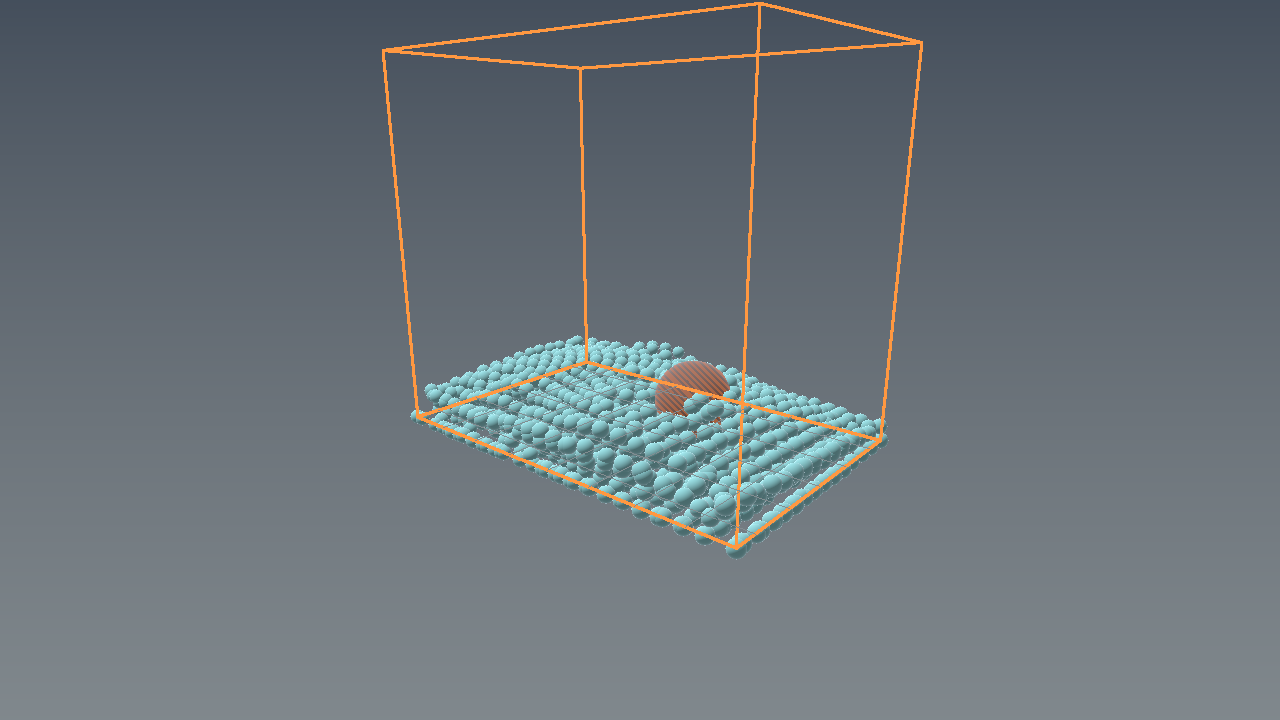
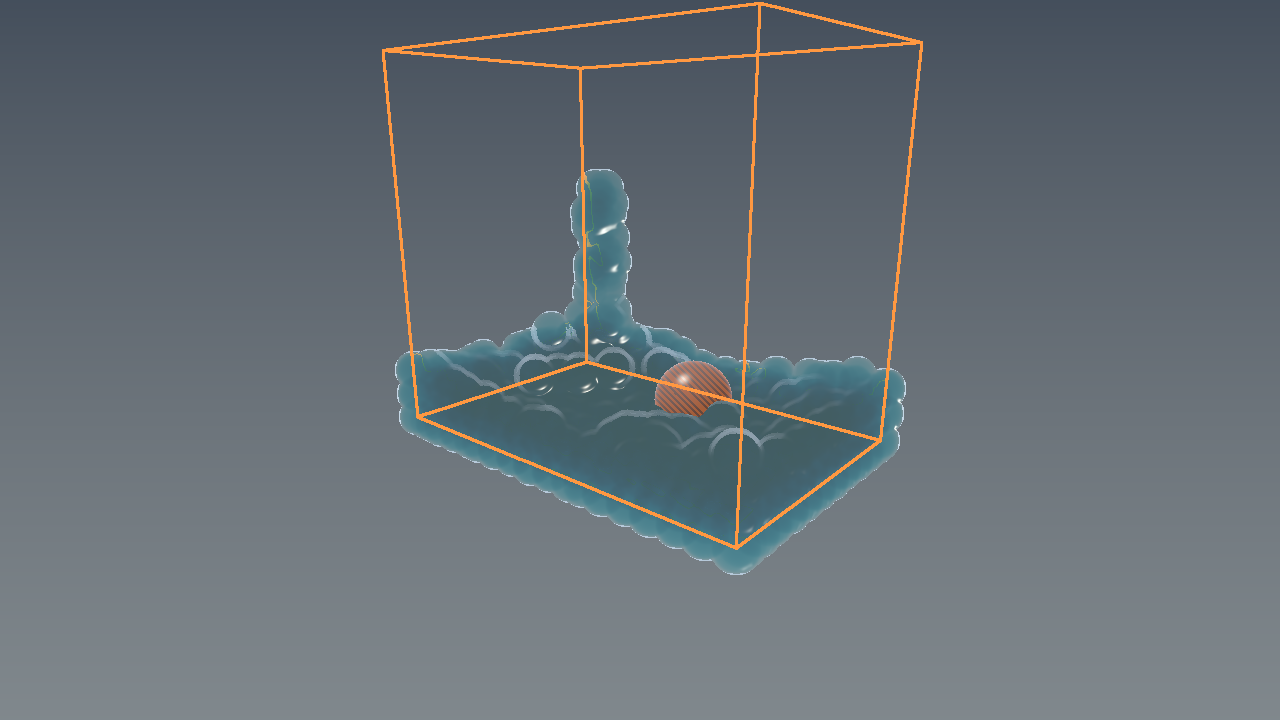
feat(fluid): reconstruct continuous liquid surfaces

Changed region(s): [[0.3125, 0.2139, 0.7188, 0.7944]]

diff --git a/Projects/Project-Fluid/Source/VulkanFluidMain.cpp b/Projects/Project-Fluid/Source/VulkanFluidMain.cpp
@@ -109,15 +109,19 @@ private:
     VkDescriptorPool DescriptorPool_{VK_NULL_HANDLE};
     VkDescriptorSet ClearSet_{VK_NULL_HANDLE};
     VkDescriptorSet SplatSet_{VK_NULL_HANDLE};
+    VkDescriptorSet ResolveSet_{VK_NULL_HANDLE};
     VkPipelineLayout ClearLayout_{VK_NULL_HANDLE};
     VkPipelineLayout SplatLayout_{VK_NULL_HANDLE};
+    VkPipelineLayout ResolveLayout_{VK_NULL_HANDLE};
     VkPipeline ClearPipeline_{VK_NULL_HANDLE};
     VkPipeline SplatPipeline_{VK_NULL_HANDLE};
+    VkPipeline ResolvePipeline_{VK_NULL_HANDLE};
     VkSemaphore Acquired_{VK_NULL_HANDLE};
     VkSemaphore Rendered_{VK_NULL_HANDLE};
     VkFence FrameFence_{VK_NULL_HANDLE};
     Buffer ParticleBuffer_;
     Buffer DepthBuffer_;
+    Buffer ThicknessBuffer_;
     Buffer PixelBuffer_;
     Buffer UniformBuffer_;
     PF::PbfFluid Fluid_;
@@ -127,6 +131,8 @@ private:
     bool PauseLatch_{false};
     bool ResetLatch_{false};
     bool StirLatch_{false};
+    bool PourLatch_{false};
+    bool Pouring_{true};
     std::uint64_t FrameNumber_{};
 
     std::uint32_t FindMemory(std::uint32_t mask, VkMemoryPropertyFlags wanted) const {
@@ -197,7 +203,7 @@ private:
         Params_.ObstacleEnabled = 1;
         GpuParticles_.resize(PF::PbfFluid::MaxParticles);
         UploadParticles();
-        std::cout << "Project Fluid / Flux controls: Space pause, R reset, S stir, P pour, 1-4 materials, Esc quit\n";
+        std::cout << "Project Fluid / Flux controls: Space pause, R reset, S stir, P toggle pour, 1-4 materials, Esc quit\n";
     }
 
     void PickDevice() {
@@ -298,14 +304,16 @@ private:
         ParticleBuffer_ = MakeBuffer(PF::PbfFluid::MaxParticles * sizeof(GpuParticle), VK_BUFFER_USAGE_STORAGE_BUFFER_BIT, true);
         const VkDeviceSize pixelBytes = static_cast<VkDeviceSize>(Extent_.width) * Extent_.height * 4;
         DepthBuffer_ = MakeBuffer(pixelBytes, VK_BUFFER_USAGE_STORAGE_BUFFER_BIT, false);
+        ThicknessBuffer_ = MakeBuffer(pixelBytes, VK_BUFFER_USAGE_STORAGE_BUFFER_BIT, false);
         PixelBuffer_ = MakeBuffer(pixelBytes, VK_BUFFER_USAGE_STORAGE_BUFFER_BIT | VK_BUFFER_USAGE_TRANSFER_SRC_BIT, false);
         UniformBuffer_ = MakeBuffer(sizeof(Parameters), VK_BUFFER_USAGE_UNIFORM_BUFFER_BIT, true);
 
-        std::array<VkDescriptorSetLayoutBinding, 4> bindings{};
+        std::array<VkDescriptorSetLayoutBinding, 5> bindings{};
         bindings[0] = {0, VK_DESCRIPTOR_TYPE_STORAGE_BUFFER, 1, VK_SHADER_STAGE_COMPUTE_BIT, nullptr};
         bindings[1] = {1, VK_DESCRIPTOR_TYPE_STORAGE_BUFFER, 1, VK_SHADER_STAGE_COMPUTE_BIT, nullptr};
         bindings[2] = {2, VK_DESCRIPTOR_TYPE_STORAGE_BUFFER, 1, VK_SHADER_STAGE_COMPUTE_BIT, nullptr};
         bindings[3] = {3, VK_DESCRIPTOR_TYPE_UNIFORM_BUFFER, 1, VK_SHADER_STAGE_COMPUTE_BIT, nullptr};
+        bindings[4] = {4, VK_DESCRIPTOR_TYPE_STORAGE_BUFFER, 1, VK_SHADER_STAGE_COMPUTE_BIT, nullptr};
         VkDescriptorSetLayoutCreateInfo setInfo{VK_STRUCTURE_TYPE_DESCRIPTOR_SET_LAYOUT_CREATE_INFO};
         setInfo.bindingCount = static_cast<std::uint32_t>(bindings.size());
         setInfo.pBindings = bindings.data();
@@ -315,31 +323,28 @@ private:
         surfaceLayout.setLayoutCount = 1;
         surfaceLayout.pSetLayouts = &SetLayout_;
         VkCheck(vkCreatePipelineLayout(Device_, &surfaceLayout, nullptr, &ClearLayout_), "vkCreatePipelineLayout");
-        VkPushConstantRange push{VK_SHADER_STAGE_COMPUTE_BIT, 0, sizeof(std::uint32_t) * 2};
-        VkPipelineLayoutCreateInfo presentLayout = surfaceLayout;
-        presentLayout.pushConstantRangeCount = 1;
-        presentLayout.pPushConstantRanges = &push;
-        VkCheck(vkCreatePipelineLayout(Device_, &presentLayout, nullptr, &SplatLayout_), "vkCreatePipelineLayout");
+        VkCheck(vkCreatePipelineLayout(Device_, &surfaceLayout, nullptr, &SplatLayout_), "vkCreatePipelineLayout");
+        VkCheck(vkCreatePipelineLayout(Device_, &surfaceLayout, nullptr, &ResolveLayout_), "vkCreatePipelineLayout");
         ClearPipeline_ = MakePipeline(PROJECT_FLUID_CLEAR_SPV, ClearLayout_);
         SplatPipeline_ = MakePipeline(PROJECT_FLUID_SPLAT_SPV, SplatLayout_);
+        ResolvePipeline_ = MakePipeline(PROJECT_FLUID_RESOLVE_SPV, ResolveLayout_);
 
         std::array<VkDescriptorPoolSize, 2> sizes{{
-            {VK_DESCRIPTOR_TYPE_STORAGE_BUFFER, 6}, {VK_DESCRIPTOR_TYPE_UNIFORM_BUFFER, 2}}};
+            {VK_DESCRIPTOR_TYPE_STORAGE_BUFFER, 12}, {VK_DESCRIPTOR_TYPE_UNIFORM_BUFFER, 3}}};
         VkDescriptorPoolCreateInfo pool{VK_STRUCTURE_TYPE_DESCRIPTOR_POOL_CREATE_INFO};
-        pool.maxSets = 2;
+        pool.maxSets = 3;
         pool.poolSizeCount = static_cast<std::uint32_t>(sizes.size());
         pool.pPoolSizes = sizes.data();
         VkCheck(vkCreateDescriptorPool(Device_, &pool, nullptr, &DescriptorPool_), "vkCreateDescriptorPool");
-        std::array<VkDescriptorSetLayout, 2> layouts{SetLayout_, SetLayout_};
+        std::array<VkDescriptorSetLayout, 3> layouts{SetLayout_, SetLayout_, SetLayout_};
         VkDescriptorSetAllocateInfo allocate{VK_STRUCTURE_TYPE_DESCRIPTOR_SET_ALLOCATE_INFO};
         allocate.descriptorPool = DescriptorPool_;
-        allocate.descriptorSetCount = 2;
+        allocate.descriptorSetCount = static_cast<std::uint32_t>(layouts.size());
         allocate.pSetLayouts = layouts.data();
-        std::array<VkDescriptorSet, 2> sets{};
+        std::array<VkDescriptorSet, 3> sets{};
         VkCheck(vkAllocateDescriptorSets(Device_, &allocate, sets.data()), "vkAllocateDescriptorSets");
-        ClearSet_ = sets[0]; SplatSet_ = sets[1];
-        WriteSet(ClearSet_);
-        WriteSet(SplatSet_);
+        ClearSet_ = sets[0]; SplatSet_ = sets[1]; ResolveSet_ = sets[2];
+        WriteSet(ClearSet_); WriteSet(SplatSet_); WriteSet(ResolveSet_);
 
         VkCommandPoolCreateInfo commandPool{VK_STRUCTURE_TYPE_COMMAND_POOL_CREATE_INFO};
         commandPool.queueFamilyIndex = QueueFamily_;
@@ -363,8 +368,9 @@ private:
         VkDescriptorBufferInfo pixels{PixelBuffer_.Handle, 0, PixelBuffer_.Size};
         VkDescriptorBufferInfo depths{DepthBuffer_.Handle, 0, DepthBuffer_.Size};
         VkDescriptorBufferInfo uniform{UniformBuffer_.Handle, 0, UniformBuffer_.Size};
-        std::array<VkDescriptorBufferInfo*, 4> infos{&particles, &pixels, &depths, &uniform};
-        std::array<VkWriteDescriptorSet, 4> writes{};
+        VkDescriptorBufferInfo thickness{ThicknessBuffer_.Handle, 0, ThicknessBuffer_.Size};
+        std::array<VkDescriptorBufferInfo*, 5> infos{&particles, &pixels, &depths, &uniform, &thickness};
+        std::array<VkWriteDescriptorSet, 5> writes{};
         for (std::uint32_t i = 0; i < writes.size(); ++i) {
             writes[i].sType = VK_STRUCTURE_TYPE_WRITE_DESCRIPTOR_SET;
             writes[i].dstSet = set; writes[i].dstBinding = i; writes[i].descriptorCount = 1;
@@ -401,6 +407,7 @@ private:
         if (Pressed(GLFW_KEY_SPACE, PauseLatch_)) Params_.Paused ^= 1u;
         if (Pressed(GLFW_KEY_R, ResetLatch_)) Fluid_.Reset();
         if (Pressed(GLFW_KEY_S, StirLatch_)) Fluid_.Stir();
+        if (Pressed(GLFW_KEY_P, PourLatch_)) Pouring_ = !Pouring_;
         if (glfwGetKey(Window_, GLFW_KEY_1) == GLFW_PRESS) Fluid_.SetMaterial(PF::Material::Water);
         if (glfwGetKey(Window_, GLFW_KEY_2) == GLFW_PRESS) Fluid_.SetMaterial(PF::Material::Milk);
         if (glfwGetKey(Window_, GLFW_KEY_3) == GLFW_PRESS) Fluid_.SetMaterial(PF::Material::Honey);
@@ -410,7 +417,7 @@ private:
             StepAccumulator_ = std::min(StepAccumulator_ + dt, fixedDelta * 2.0f);
             int steps = 0;
             while (StepAccumulator_ >= fixedDelta && steps++ < 2) {
-                if (glfwGetKey(Window_, GLFW_KEY_P) == GLFW_PRESS) Fluid_.Pour(fixedDelta);
+                if (Pouring_) Fluid_.Pour(fixedDelta);
                 Fluid_.Step(fixedDelta);
                 StepAccumulator_ -= fixedDelta;
             }
@@ -420,7 +427,7 @@ private:
         const auto& d = Fluid_.Diagnostics();
         std::string title = "Project Fluid | Flux PBF | " + std::string(Fluid_.ActiveMaterial().Name) +
             " | particles " + std::to_string(Fluid_.Positions().size()) +
-            " | contacts " + std::to_string(d.SphereContacts) + (Params_.Paused ? " | PAUSED" : "");
+            " | contacts " + std::to_string(d.SphereContacts) + (Pouring_ ? " | POUR" : " | FLOW PAUSED") + (Params_.Paused ? " | PAUSED" : "");
         glfwSetWindowTitle(Window_, title.c_str());
     }
 
@@ -443,7 +450,15 @@ private:
                              1, &computeBarrier, 0, nullptr, 0, nullptr);
         vkCmdBindPipeline(Command_, VK_PIPELINE_BIND_POINT_COMPUTE, SplatPipeline_);
         vkCmdBindDescriptorSets(Command_, VK_PIPELINE_BIND_POINT_COMPUTE, SplatLayout_, 0, 1, &SplatSet_, 0, nullptr);
-        vkCmdDispatch(Command_, (Params_.ParticleCount + 1u + 63u) / 64u, 1, 1);
+        vkCmdDispatch(Command_, (Params_.ParticleCount + 63u) / 64u, 1, 1);
+        VkMemoryBarrier splatBarrier{VK_STRUCTURE_TYPE_MEMORY_BARRIER};
+        splatBarrier.srcAccessMask = VK_ACCESS_SHADER_WRITE_BIT;
+        splatBarrier.dstAccessMask = VK_ACCESS_SHADER_READ_BIT | VK_ACCESS_SHADER_WRITE_BIT;
+        vkCmdPipelineBarrier(Command_, VK_PIPELINE_STAGE_COMPUTE_SHADER_BIT, VK_PIPELINE_STAGE_COMPUTE_SHADER_BIT, 0,
+                             1, &splatBarrier, 0, nullptr, 0, nullptr);
+        vkCmdBindPipeline(Command_, VK_PIPELINE_BIND_POINT_COMPUTE, ResolvePipeline_);
+        vkCmdBindDescriptorSets(Command_, VK_PIPELINE_BIND_POINT_COMPUTE, ResolveLayout_, 0, 1, &ResolveSet_, 0, nullptr);
+        vkCmdDispatch(Command_, (Extent_.width + 15) / 16, (Extent_.height + 15) / 16, 1);
         VkBufferMemoryBarrier pixelBarrier{VK_STRUCTURE_TYPE_BUFFER_MEMORY_BARRIER};
         pixelBarrier.srcAccessMask = VK_ACCESS_SHADER_WRITE_BIT;
         pixelBarrier.dstAccessMask = VK_ACCESS_TRANSFER_READ_BIT;
@@ -508,11 +523,13 @@ private:
             if (CommandPool_) vkDestroyCommandPool(Device_, CommandPool_, nullptr);
             if (ClearPipeline_) vkDestroyPipeline(Device_, ClearPipeline_, nullptr);
             if (SplatPipeline_) vkDestroyPipeline(Device_, SplatPipeline_, nullptr);
+            if (ResolvePipeline_) vkDestroyPipeline(Device_, ResolvePipeline_, nullptr);
             if (ClearLayout_) vkDestroyPipelineLayout(Device_, ClearLayout_, nullptr);
             if (SplatLayout_) vkDestroyPipelineLayout(Device_, SplatLayout_, nullptr);
+            if (ResolveLayout_) vkDestroyPipelineLayout(Device_, ResolveLayout_, nullptr);
             if (DescriptorPool_) vkDestroyDescriptorPool(Device_, DescriptorPool_, nullptr);
             if (SetLayout_) vkDestroyDescriptorSetLayout(Device_, SetLayout_, nullptr);
-            DestroyBuffer(ParticleBuffer_); DestroyBuffer(DepthBuffer_); DestroyBuffer(PixelBuffer_); DestroyBuffer(UniformBuffer_);
+            DestroyBuffer(ParticleBuffer_); DestroyBuffer(DepthBuffer_); DestroyBuffer(ThicknessBuffer_); DestroyBuffer(PixelBuffer_); DestroyBuffer(UniformBuffer_);
             if (Swapchain_) vkDestroySwapchainKHR(Device_, Swapchain_, nullptr);
             vkDestroyDevice(Device_, nullptr);
         }

diff --git a/Projects/Project-Fluid/Source/CpuProofMain.cpp b/Projects/Project-Fluid/Source/CpuProofMain.cpp
@@ -46,7 +46,49 @@ public:
         }
     }
 
-    void Bounds(){PF::Vec3 lo=PF::PbfFluid::BoundsMin(),hi=PF::PbfFluid::BoundsMax();Pixel c{1.0f,.32f,.05f};std::array<PF::Vec3,8> p{{{lo.x,lo.y,lo.z},{hi.x,lo.y,lo.z},{hi.x,lo.y,hi.z},{lo.x,lo.y,hi.z},{lo.x,hi.y,lo.z},{hi.x,hi.y,lo.z},{hi.x,hi.y,hi.z},{lo.x,hi.y,hi.z}}};int e[][2]={{0,1},{1,2},{2,3},{3,0},{4,5},{5,6},{6,7},{7,4},{0,4},{1,5},{2,6},{3,7}};for(auto& q:e)Line(p[q[0]],p[q[1]],c,1);for(float x=-1.5f;x<=1.5f;x+=.5f)Line({x,lo.y,lo.z},{x,lo.y,hi.z},{.23f,.27f,.29f},0);for(float z=-1;z<=1;z+=.5f)Line({lo.x,lo.y,z},{hi.x,lo.y,z},{.23f,.27f,.29f},0);}
+    void FluidSurface(const std::vector<PF::Vec3>& positions,const PF::FluidMaterial& material){
+        const std::size_t count=static_cast<std::size_t>(W)*H;
+        std::vector<float> front(count,std::numeric_limits<float>::max()),thickness(count,0.0f),scratch(count,std::numeric_limits<float>::max());
+        constexpr float surfaceRadius=.180f;
+        for(const PF::Vec3& centre:positions){
+            Screen s=Project(centre);if(!s.visible)continue;int radius=std::clamp(static_cast<int>(Focal*surfaceRadius/s.z),1,48);
+            for(int oy=-radius;oy<=radius;++oy)for(int ox=-radius;ox<=radius;++ox){
+                float nx=static_cast<float>(ox)/radius,ny=static_cast<float>(oy)/radius,d2=nx*nx+ny*ny;if(d2>1.0f)continue;
+                int x=static_cast<int>(s.x)+ox,y=static_cast<int>(s.y)+oy;if(x<0||y<0||x>=(int)W||y>=(int)H)continue;
+                float nz=std::sqrt(1.0f-d2);std::size_t at=static_cast<std::size_t>(y)*W+x;
+                front[at]=std::min(front[at],s.z-surfaceRadius*nz);thickness[at]+=2.0f*surfaceRadius*nz;
+            }
+        }
+        // Six edge-aware depth/thickness passes mirror the source renderer's
+        // bilateral reconstruction and close sub-pixel gaps between samples.
+        for(int pass=0;pass<6;++pass){
+            for(std::uint32_t y=1;y+1<H;++y)for(std::uint32_t x=1;x+1<W;++x){
+                std::size_t at=static_cast<std::size_t>(y)*W+x;float centre=front[at],sum=0,weight=0;
+                for(int oy=-1;oy<=1;++oy)for(int ox=-1;ox<=1;++ox){float sample=front[(y+oy)*W+x+ox];if(!std::isfinite(sample))continue;float spatial=(ox==0&&oy==0)?2.0f:1.0f;float range=std::isfinite(centre)?std::exp(-std::abs(sample-centre)*8.0f):1.0f;sum+=sample*spatial*range;weight+=spatial*range;}
+                scratch[at]=weight>0?sum/weight:std::numeric_limits<float>::max();
+            }
+            front.swap(scratch);std::fill(scratch.begin(),scratch.end(),std::numeric_limits<float>::max());
+        }
+        std::fill(scratch.begin(),scratch.end(),0.0f);
+        for(int pass=0;pass<3;++pass){
+            for(std::uint32_t y=1;y+1<H;++y)for(std::uint32_t x=1;x+1<W;++x){std::size_t at=static_cast<std::size_t>(y)*W+x;scratch[at]=(thickness[at]*4.0f+thickness[at-1]+thickness[at+1]+thickness[at-W]+thickness[at+W])/8.0f;}
+            thickness.swap(scratch);std::fill(scratch.begin(),scratch.end(),0.0f);
+        }
+        const std::vector<Pixel> backdrop=Colour;PF::Vec3 light=PF::Normalized({-.4f,.8f,.3f});PF::Vec3 halfVector=PF::Normalized(light+PF::Vec3{0,0,1});
+        for(std::uint32_t y=3;y+3<H;++y)for(std::uint32_t x=3;x+3<W;++x){
+            std::size_t at=static_cast<std::size_t>(y)*W+x;if(!std::isfinite(front[at])||thickness[at]<.002f)continue;
+            float left=front[at-3],right=front[at+3],top=front[at-3*W],bottom=front[at+3*W];if(!std::isfinite(left)||!std::isfinite(right)||!std::isfinite(top)||!std::isfinite(bottom))continue;
+            PF::Vec3 normal=PF::Normalized({-(right-left)*7.0f,(bottom-top)*7.0f,1.0f});float diffuse=std::max(0.0f,PF::Dot(normal,light));
+            float f0=std::pow((material.Ior-1.0f)/(material.Ior+1.0f),2.0f);float fresnel=f0+(1.0f-f0)*std::pow(1.0f-normal.z,5.0f);
+            float specular=std::pow(std::max(0.0f,PF::Dot(normal,halfVector)),110.0f*(1.0f-material.Roughness)+14.0f)*(1.0f-material.Roughness*.55f);
+            int rx=std::clamp(static_cast<int>(x-normal.x*thickness[at]*38.0f),0,static_cast<int>(W)-1),ry=std::clamp(static_cast<int>(y+normal.y*thickness[at]*38.0f),0,static_cast<int>(H)-1);Pixel behind=backdrop[static_cast<std::size_t>(ry)*W+rx];
+            Pixel transmit{behind.r*std::exp(-material.Absorption.x*thickness[at]*2.8f)+material.Colour.x*.12f,behind.g*std::exp(-material.Absorption.y*thickness[at]*2.8f)+material.Colour.y*.12f,behind.b*std::exp(-material.Absorption.z*thickness[at]*2.8f)+material.Colour.z*.12f};
+            Pixel base{material.Colour.x*(.18f+.65f*diffuse),material.Colour.y*(.18f+.65f*diffuse),material.Colour.z*(.18f+.65f*diffuse)};
+            Pixel c=Mix(transmit,base,material.Opacity);c.r+=specular+fresnel*.38f;c.g+=specular*.95f+fresnel*.42f;c.b+=specular*.84f+fresnel*.50f;
+            Colour[at]=c;Depth[at]=front[at];
+        }
+    }
+    void Bounds(bool drawFloorGrid=true){PF::Vec3 lo=PF::PbfFluid::BoundsMin(),hi=PF::PbfFluid::BoundsMax();Pixel c{1.0f,.32f,.05f};std::array<PF::Vec3,8> p{{{lo.x,lo.y,lo.z},{hi.x,lo.y,lo.z},{hi.x,lo.y,hi.z},{lo.x,lo.y,hi.z},{lo.x,hi.y,lo.z},{hi.x,hi.y,lo.z},{hi.x,hi.y,hi.z},{lo.x,hi.y,hi.z}}};int e[][2]={{0,1},{1,2},{2,3},{3,0},{4,5},{5,6},{6,7},{7,4},{0,4},{1,5},{2,6},{3,7}};for(auto& q:e)Line(p[q[0]],p[q[1]],c,1);if(drawFloorGrid){for(float x=-1.5f;x<=1.5f;x+=.5f)Line({x,lo.y,lo.z},{x,lo.y,hi.z},{.23f,.27f,.29f},0);for(float z=-1;z<=1;z+=.5f)Line({lo.x,lo.y,z},{hi.x,lo.y,z},{.23f,.27f,.29f},0);}}
     bool Save(const std::string& path){std::ofstream f(path,std::ios::binary);if(!f)return false;f<<"P6\n"<<W<<' '<<H<<"\n255\n";for(auto c:Colour){for(float v:{c.r,c.g,c.b}){unsigned char q=static_cast<unsigned char>(std::pow(std::clamp(v,0.0f,1.0f),1.0f/2.2f)*255+.5f);f.write(reinterpret_cast<char*>(&q),1);}}return(bool)f;}
 private:
     std::uint32_t W,H;std::vector<Pixel>Colour;std::vector<float>Depth;PF::Vec3 Camera,Forward,Right,Up;float Focal{};
@@ -58,7 +100,7 @@ int main(int argc,char**argv){
     if(argc>3){const std::string material=argv[3];if(material=="milk")fluid.SetMaterial(PF::Material::Milk);else if(material=="honey")fluid.SetMaterial(PF::Material::Honey);else if(material=="chocolate")fluid.SetMaterial(PF::Material::Chocolate);}
     fluid.Stir(1.7f);
     int steps=argc>2?std::max(0,std::stoi(argv[2])):18;
-    for(int i=0;i<steps;++i)fluid.Step(1.0f/60.0f);
+    for(int i=0;i<steps;++i){fluid.Pour(1.0f/60.0f);fluid.Step(1.0f/60.0f);}
     const auto& d=fluid.Diagnostics();
     const PF::Vec3 lo=PF::PbfFluid::BoundsMin(),hi=PF::PbfFluid::BoundsMax(),centre=PF::PbfFluid::ObstacleCentre();
     float minimumObstacleDistance=1e9f;
@@ -70,6 +112,6 @@ int main(int argc,char**argv){
     std::cout<<std::fixed<<std::setprecision(5)<<"Flux PBF C++ mirror | material "<<fluid.ActiveMaterial().Name<<" | particles "<<fluid.Positions().size()<<" | t "<<fluid.Time()<<" s\n"
              <<"bounds [-1.95,1.95] x [0.19,3.70] x [-1.25,1.25] m | sphere contacts "<<d.SphereContacts<<" | wall contacts "<<d.WallContacts<<" | min sphere distance "<<minimumObstacleDistance<<" m\n"
              <<"pressure passes "<<d.PressureIterations<<" | mean/peak compression "<<d.MeanCompression<<" / "<<d.PeakCompression<<"\n";
-    if(argc>1){ProofRenderer renderer(1280,720);renderer.Bounds();const auto& material=fluid.ActiveMaterial();for(const auto&p:fluid.Positions())renderer.Sphere(p,.079f,{material.Colour.x,material.Colour.y,material.Colour.z},false,material.Roughness,material.Opacity,material.Ior,material.Absorption);renderer.Sphere(PF::PbfFluid::ObstacleCentre(),PF::PbfFluid::ObstacleRadius(),{.16f,.18f,.20f},true,.25f,1.0f,1.45f);renderer.Bounds();if(!renderer.Save(argv[1]))return 2;std::cout<<"proof frame: "<<argv[1]<<'\n';}
+    if(argc>1){ProofRenderer renderer(1280,720);renderer.Bounds();const auto& material=fluid.ActiveMaterial();renderer.FluidSurface(fluid.Positions(),material);renderer.Sphere(PF::PbfFluid::ObstacleCentre(),PF::PbfFluid::ObstacleRadius(),{.16f,.18f,.20f},true,.25f,1.0f,1.45f);renderer.Bounds(false);if(!renderer.Save(argv[1]))return 2;std::cout<<"proof frame: "<<argv[1]<<'\n';}
     return std::isfinite(d.PeakCompression)?0:1;
 }

diff --git a/Exhibits/Project-Fluid/README.md b/Exhibits/Project-Fluid/README.md
@@ -1,36 +1,42 @@
-# Project Fluid — corrected Flux PBF proof
+# Project Fluid — Flux PBF continuous-surface proof
 
 Source: `eosclient0001-rgb/Frontier`, commit
 `c708b47926dec2e31d08b2a0bc01ab15c84983c8`, branch
 `arena/01a0c4da-frontier`.
 
-![Animated fixed-step PBF collision](ProjectFluid_Flux_PBF_Collision.gif)
+![Animated continuous PBF collision](ProjectFluid_Flux_PBF_Collision.gif)
 
-![Bounds and collision frame](ProjectFluid_Flux_PBF_Bounds_Collision.png)
+![Continuous surface, bounds and collision](ProjectFluid_Flux_PBF_Bounds_Collision.png)
 
 ## Material and optical response
 
-![Water, milk, honey and chocolate](ProjectFluid_Flux_Material_Comparison.png)
+![Water, milk, honey and chocolate continuous surfaces](ProjectFluid_Flux_Surface_Material_Comparison.png)
 
-The four panels are separate native runs at the same 0.30000 s simulation
-budget. They use the requested source commit's base colour, absorption,
-opacity, roughness and IOR, while viscosity, surface tension, wetting and
-shear-thinning alter the corresponding simulation state. The Vulkan `.slang`
-path reads the same material structure.
+The four panels are separate deterministic native runs at the same 1.50000 s
+simulation budget with pouring enabled. They use the requested source commit's
+base colour, absorption, opacity, roughness and IOR, while viscosity, surface
+tension, wetting and shear thinning alter the corresponding simulation state.
 
-These are native C++ execution outputs, not generated artwork or captures from
-the removed ocean project. The orange box is the real solver domain. The striped
-sphere is the source scene's stationary obstacle. Every cyan sphere is one PBF
-simulation particle; visible separation around the obstacle comes from the same
-sphere non-penetration projection used during pressure iterations.
+These are C++ CPU-mirror execution outputs, not generated artwork or captures
+from the removed ocean project. The proof executes the same scene and same
+front-depth/thickness surface algorithm as the Vulkan `.slang` path: overlapping
+particle kernels build continuous front depth and optical thickness, depth and
+thickness are filtered, and a resolve reconstructs normals and applies
+refraction, Beer–Lambert attenuation, Fresnel response and rough highlights.
+Individual simulation particles are not directly drawn in the default proof.
+
+The orange box is the real solver domain. The striped sphere is the source
+scene's stationary obstacle and is depth-tested against the liquid. The visible
+liquid separation around it comes from the same sphere non-penetration
+projection used during pressure iterations.
 
 ## Recorded run
 
 ```text
-Flux PBF C++ mirror | particles 1440 | t 0.30000 s
+Flux PBF C++ mirror | material Water | particles 1620 | t 1.50000 s
 bounds [-1.95,1.95] x [0.19,3.70] x [-1.25,1.25] m
-sphere contacts 26 | wall contacts 2868 | minimum sphere distance 0.36000 m
-pressure passes 4 | mean/peak compression 0.00198 / 0.02686
+sphere contacts 75 | wall contacts 5922 | minimum sphere distance 0.36001 m
+pressure passes 6 | mean/peak compression 0.00323 / 0.05044
 ```
 
 Build and reproduce:
@@ -40,7 +46,7 @@ g++ -std=c++20 -O3 -Wall -Wextra -Werror -Wpedantic \
   Projects/Project-Fluid/Source/PbfFluid.cpp \
   Projects/Project-Fluid/Source/CpuProofMain.cpp \
   -o /tmp/flux-proof
-/tmp/flux-proof /tmp/flux.ppm 18
+/tmp/flux-proof /tmp/flux.ppm 90 water
 python3 Tools/PpmToPng.py /tmp/flux.ppm \
   Exhibits/Project-Fluid/ProjectFluid_Flux_PBF_Bounds_Collision.png
 ```
@@ -48,11 +54,11 @@ python3 Tools/PpmToPng.py /tmp/flux.ppm \
 Checksums:
 
 ```text
-51056578c59fefec7c766017147d4e8fcbef4aeda2d3349d7c324ff87fd35de1  ProjectFluid_Flux_PBF_Bounds_Collision.png
-55e890da9efc72208926f0b5ab518f9338157947422cce516db38b1d58dbf658  ProjectFluid_Flux_PBF_Collision.gif
-143ce4bb7d806fa8e5d79630f829dcd606cd4d58ab456149de020bf7cbaa57f0  ProjectFluid_Flux_Material_Comparison.png
+928cf073cf30e01444ee7c383ed9628c3bc7f2040020c480f7adbed8defef368  ProjectFluid_Flux_PBF_Bounds_Collision.png
+f19c6d2e3415b4dea06aa35a80b2e9c07aefe699f8e0af2098b46a8ceda3cf8a  ProjectFluid_Flux_PBF_Collision.gif
+c356f4b1c71c1af45cae899b2eda78988ebcf5ea155fe8098db1418fbd0e8136  ProjectFluid_Flux_Surface_Material_Comparison.png
 ```
 
-The GIF samples twelve deterministic fixed-step states. The interactive Vulkan
-window advances continuously at 1/60 s, supports reset/stir/pour/material input,
-and shows live contact counts in its title and diagnostics in the console.
+The GIF samples twelve independently reproduced fixed-step states. The
+interactive Vulkan window advances at 1/60 s, starts with pouring enabled,
+supports reset/stir/pour/material input, and shows live contact counts.

diff --git a/Projects/Project-Fluid/RESEARCH.md b/Projects/Project-Fluid/RESEARCH.md
@@ -25,14 +25,21 @@ commit. `Project-Fluid-CPU` is the deterministic headless path used for proof.
   than the TypeScript version's pre-sampled pseudo-mass cloud. Collision geometry
   is exact; this density-support substitution is documented rather than claimed
   as a byte-for-byte paper reproduction.
-- The native proof uses particle spheres to make individual simulation samples,
-  the full orange bounds and sphere collisions auditable. The Vulkan compute
-  renderer uses the same positions and scene geometry.
+- The default native presentation is a continuous screen-space liquid surface,
+  not one rendered sphere per simulation particle. A first compute/CPU-mirror
+  pass accumulates nearest front depth and additive optical thickness from
+  overlapping kernels. Repeated bilateral depth and Gaussian thickness filters
+  close the sampled sheet; depth gradients reconstruct the shading normal.
 - Vulkan kernels use Frontier's `.slang` file convention and lower to SPIR-V.
-  CPU and Vulkan presentation consume the source commit's base colour,
-  Beer-Lambert absorption, opacity, roughness and IOR values for all four
-  materials. This remains particle-surface preview shading, not the removed
-  WebGL anisotropic reconstruction or a claim of calibrated measured optics.
+  CPU and Vulkan resolves consume the source commit's base colour,
+  Beer–Lambert absorption, opacity, roughness and IOR values for all four
+  materials, with refraction, Fresnel and rough highlights. The explicit orange
+  basin and opaque striped sphere remain visible and depth-tested so bounds and
+  collision behavior remain auditable.
+- This is honestly a depth/thickness screen-space reconstruction, not a claim
+  that the source's CPU covariance ellipsoids, complete Yu–Turk implicit field,
+  or Marching Cubes were ported. It retains the known overlap, thin-sheet and
+  silhouette limits recorded in the original research below.
 - The WebGL anisotropic screen-space reconstruction is not falsely relabeled as
   ReSTIR. Future ReSTIR integration consumes an immutable particle/surface
   snapshot after the fixed step, writes fluid motion vectors, and rejects

diff --git a/Projects/Project-Fluid/README.md b/Projects/Project-Fluid/README.md
@@ -15,10 +15,13 @@ which has been removed.
 - pairwise surface response, viscosity and shear-thinning material response
 - water, milk, honey and chocolate presets
 - pouring, stirring, pause and deterministic reset
-- Vulkan compute particle splatting into a depth/pixel buffer and swapchain
+- Vulkan compute screen-space surface reconstruction: particle front-depth and
+  thickness splats, filtered resolve, reconstructed normals and swapchain copy
 - Frontier `.slang` shader sources lowered to Vulkan SPIR-V
 - source optical presets: base colour, absorption, opacity, roughness and IOR
-- native CPU proof renderer using the same positions, bounds, obstacle and optics
+- continuous refraction, Beer–Lambert attenuation, Fresnel and rough highlights
+- native CPU mirror of the same depth/thickness reconstruction, scene and optics
+- particle points are simulation data only; they are not the default presentation
 
 ## Build
 
@@ -34,7 +37,7 @@ and are lowered to SPIR-V by the same staged build pattern as Project Zero. With
 
 ```bash
 cmake --build build --target Project-Fluid-CPU -j
-./build/Projects/Project-Fluid/Project-Fluid-CPU proof.ppm 18
+./build/Projects/Project-Fluid/Project-Fluid-CPU proof.ppm 90 water
 ```
 
 ## Interactive controls
@@ -44,7 +47,7 @@ cmake --build build --target Project-Fluid-CPU -j
 | Space | Pause/resume fixed-step simulation |
 | R | Deterministic basin reset |
 | S | Stir the actual particle velocities |
-| Hold P | Pour particles until the 2,800 capacity |
+| P | Toggle the initially enabled pour until the 2,800 capacity |
 | 1 / 2 / 3 / 4 | Water / milk / honey / chocolate |
 | Escape | Exit |
 
